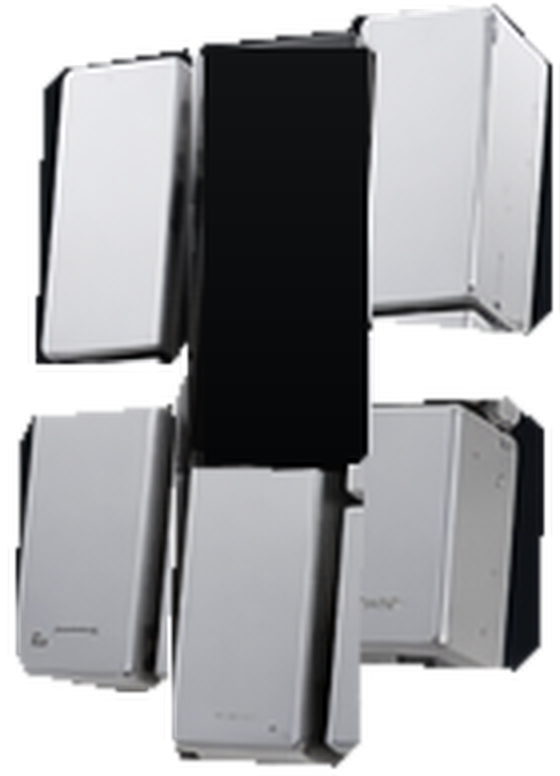
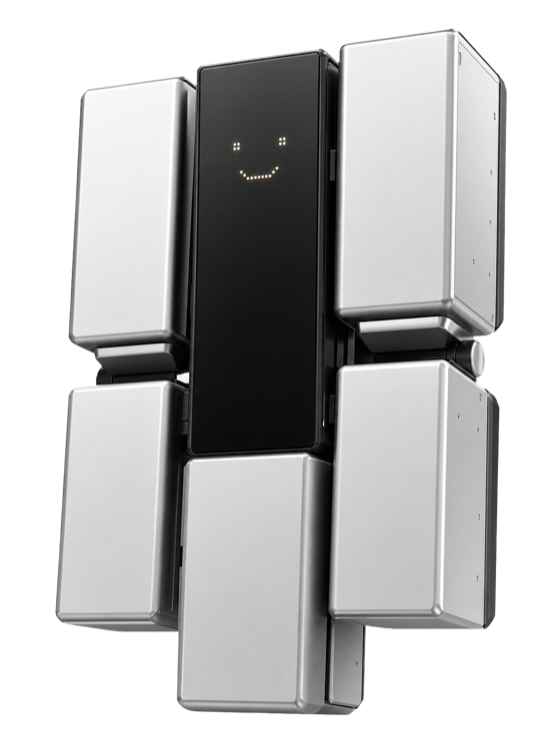
Add files via upload

diff --git a/assets/orbit/orbit.css b/assets/orbit/orbit.css
@@ -15,9 +15,12 @@
   box-sizing: border-box;
 }
 
-.orbit-assistant button,
-.orbit-assistant textarea {
+.orbit-assistant button {
   font: inherit;
+}
+
+.orbit-assistant textarea {
+  font-family: inherit;
 }
 
 .orbit-assistant .sr-only {
@@ -384,13 +387,7 @@ body.case-open .orbit-assistant {
 }
 
 .orbit-panel::before {
-  content: "";
-  position: absolute;
-  inset: 0 20px auto;
-  z-index: 4;
-  height: 1px;
-  background: linear-gradient(90deg, transparent, rgba(255, 255, 255, .22), rgba(200, 167, 110, .12), transparent);
-  pointer-events: none;
+  display: none;
 }
 
 .orbit-assistant.is-open .orbit-panel {
@@ -408,8 +405,7 @@ body.case-open .orbit-assistant {
   gap: 12px;
   min-height: 72px;
   padding: 16px 18px;
-  border-bottom: 1px solid rgba(255, 255, 255, .08);
-  background: rgba(7, 8, 10, .2);
+  background: rgba(7, 8, 10, .12);
 }
 
 .orbit-panel-avatar,
@@ -417,7 +413,7 @@ body.case-open .orbit-assistant {
   display: grid;
   place-items: center;
   overflow: hidden;
-  border: 1px solid rgba(255, 255, 255, .11);
+  border: 0;
   border-radius: 50%;
   background:
     radial-gradient(circle at 50% 35%, rgba(255, 255, 255, .08), transparent 58%),
@@ -442,18 +438,18 @@ body.case-open .orbit-assistant {
 .orbit-panel-identity {
   min-width: 0;
   display: grid;
-  gap: 6px;
+  gap: 4px;
 }
 
 .orbit-panel-identity strong {
-  font-size: 13px;
+  font-size: 16px;
   line-height: 1;
   font-weight: 600;
 }
 
 .orbit-panel-identity .orbit-status {
   margin-left: 0;
-  font-size: 8px;
+  font-size: 12px;
 }
 
 .orbit-panel-actions {
@@ -502,36 +498,34 @@ body.case-open .orbit-assistant {
   max-width: 88%;
   display: grid;
   gap: 7px;
-  padding: 12px 14px;
-  border: 1px solid rgba(255, 255, 255, .08);
+  padding: 16px;
+  border: 0;
   border-radius: 14px;
   color: rgba(255, 255, 255, .82);
   background: rgba(255, 255, 255, .045);
   font-size: 12px;
-  line-height: 1.65;
+  line-height: 1.62;
   animation: orbit-message-in .22s ease-out both;
 }
 
 .orbit-message--assistant {
   align-self: flex-start;
-  max-width: calc(100% - 44px);
-  margin-left: 44px;
+  max-width: 100%;
+  margin-left: 0;
   border-top-left-radius: 5px;
 }
 
 .orbit-message--user {
   align-self: flex-end;
   max-width: 78%;
-  border-color: rgba(200, 167, 110, .15);
   border-bottom-right-radius: 5px;
   color: rgba(255, 255, 255, .9);
   background: rgba(200, 167, 110, .07);
 }
 
 .orbit-message--status {
-  max-width: calc(100% - 44px);
-  margin-left: 44px;
-  border-color: transparent;
+  max-width: 100%;
+  margin-left: 0;
   color: rgba(255, 255, 255, .54);
   background: transparent;
   padding: 5px 1px;
@@ -547,18 +541,20 @@ body.case-open .orbit-assistant {
 
 .orbit-message-meta {
   color: rgba(200, 167, 110, .68);
-  font-size: 8px;
+  font-size: 12px;
   line-height: 1;
   text-transform: uppercase;
 }
 
 .orbit-message-copy {
   white-space: pre-line;
+  font-size: 12px;
+  line-height: 1.45;
 }
 
 .orbit-welcome-note {
   color: rgba(255, 255, 255, .38);
-  font-size: 10px;
+  font-size: 12px;
   line-height: 1.4;
 }
 
@@ -566,10 +562,10 @@ body.case-open .orbit-assistant {
   display: grid;
   grid-template-columns: repeat(2, minmax(0, 1fr));
   gap: 7px;
-  width: calc(100% - 44px);
-  margin-left: 44px;
-  padding: 12px;
-  border: 1px solid rgba(255, 255, 255, .065);
+  width: 100%;
+  margin-left: 0;
+  padding: 16px;
+  border: 0;
   border-radius: 14px;
   background: rgba(255, 255, 255, .025);
   animation: orbit-message-in .28s .06s ease-out both;
@@ -579,7 +575,7 @@ body.case-open .orbit-assistant {
   grid-column: 1 / -1;
   margin-bottom: 2px;
   color: rgba(255, 255, 255, .38);
-  font-size: 8px;
+  font-size: 12px;
   line-height: 1;
   letter-spacing: .04em;
   text-transform: uppercase;
@@ -588,11 +584,11 @@ body.case-open .orbit-assistant {
 .orbit-quick-questions button {
   min-height: 36px;
   padding: 8px 9px;
-  border: 1px solid rgba(255, 255, 255, .09);
+  border: 1px solid rgba(255, 255, 255, .075);
   border-radius: 10px;
   color: rgba(255, 255, 255, .68);
   background: rgba(255, 255, 255, .025);
-  font-size: 10px;
+  font-size: 12px;
   line-height: 1.25;
   text-align: center;
   transition: color .2s ease, border-color .2s ease, background .2s ease, transform .2s ease;
@@ -615,8 +611,7 @@ body.case-open .orbit-assistant {
   z-index: 2;
   display: block;
   padding: 12px;
-  border-top: 1px solid rgba(255, 255, 255, .08);
-  background: rgba(7, 8, 10, .34);
+  background: rgba(7, 8, 10, .2);
 }
 
 .orbit-input-wrap {
@@ -637,33 +632,34 @@ body.case-open .orbit-assistant {
 
 .orbit-input {
   width: 100%;
-  min-height: 46px;
+  min-height: 50px;
   max-height: 92px;
   resize: none;
   border: 0;
   outline: 0;
-  padding: 13px 50px 11px 13px;
+  padding: 15px 54px 13px 14px;
   color: rgba(255, 255, 255, .88);
   background: transparent;
-  font-size: 12px;
+  font-size: 14px;
   line-height: 1.45;
 }
 
 .orbit-input::placeholder {
   color: rgba(255, 255, 255, .32);
+  font-size: 14px;
 }
 
 .orbit-send {
   position: absolute;
-  right: 19px;
-  bottom: 19px;
+  right: 22px;
+  bottom: 22px;
   width: 30px;
   height: 30px;
   display: grid;
   place-items: center;
   padding: 0;
   border: 1px solid rgba(200, 167, 110, .18);
-  border-radius: 50%;
+  border-radius: 12px;
   color: rgba(248, 241, 226, .9);
   background:
     linear-gradient(145deg, rgba(255, 255, 255, .1), transparent 54%),

diff --git a/assets/orbit/orbit.js b/assets/orbit/orbit.js
@@ -75,18 +75,6 @@
     const message = document.createElement("div");
     message.className = `orbit-message orbit-message--${role}`;
 
-    if (role === "assistant") {
-      const avatar = document.createElement("span");
-      avatar.className = "orbit-message-avatar";
-      avatar.setAttribute("aria-hidden", "true");
-
-      const avatarImage = document.createElement("img");
-      avatarImage.src = "assets/orbit/orbit-robot-6block.png";
-      avatarImage.alt = "";
-      avatar.appendChild(avatarImage);
-      message.appendChild(avatar);
-    }
-
     if (meta) {
       const label = document.createElement("span");
       label.className = "orbit-message-meta";